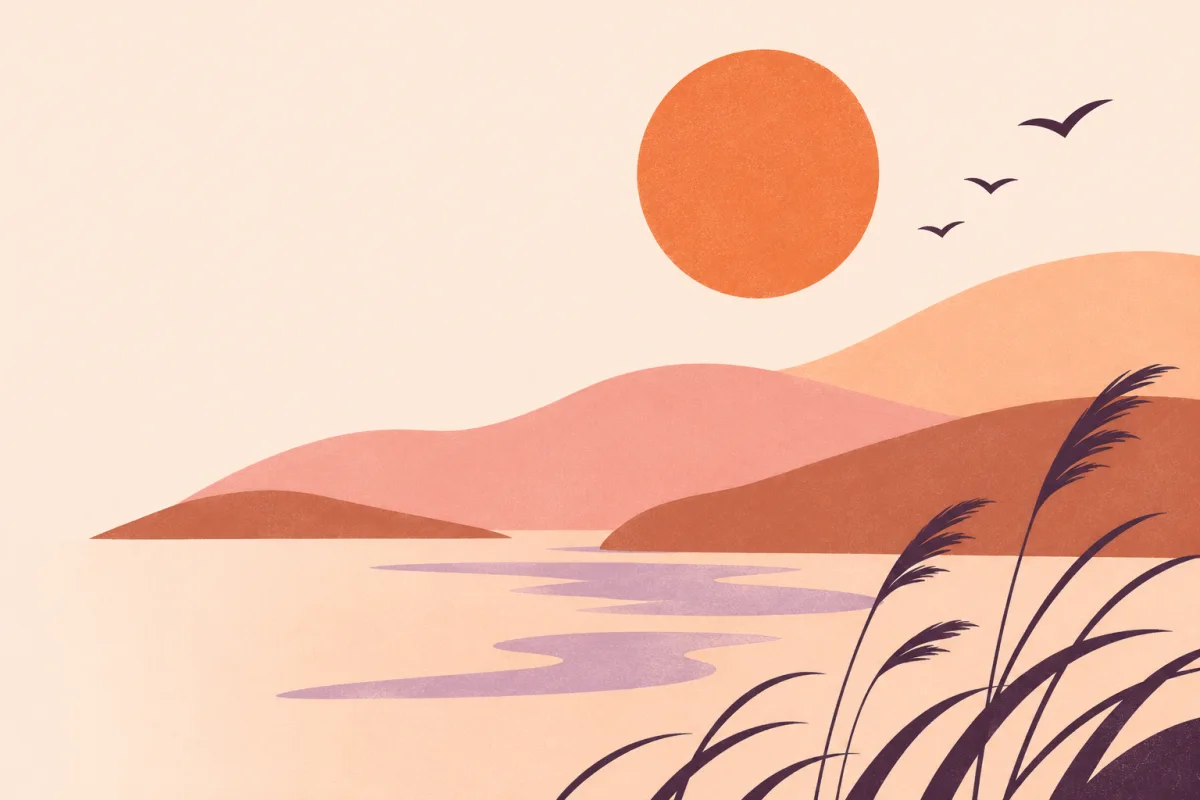
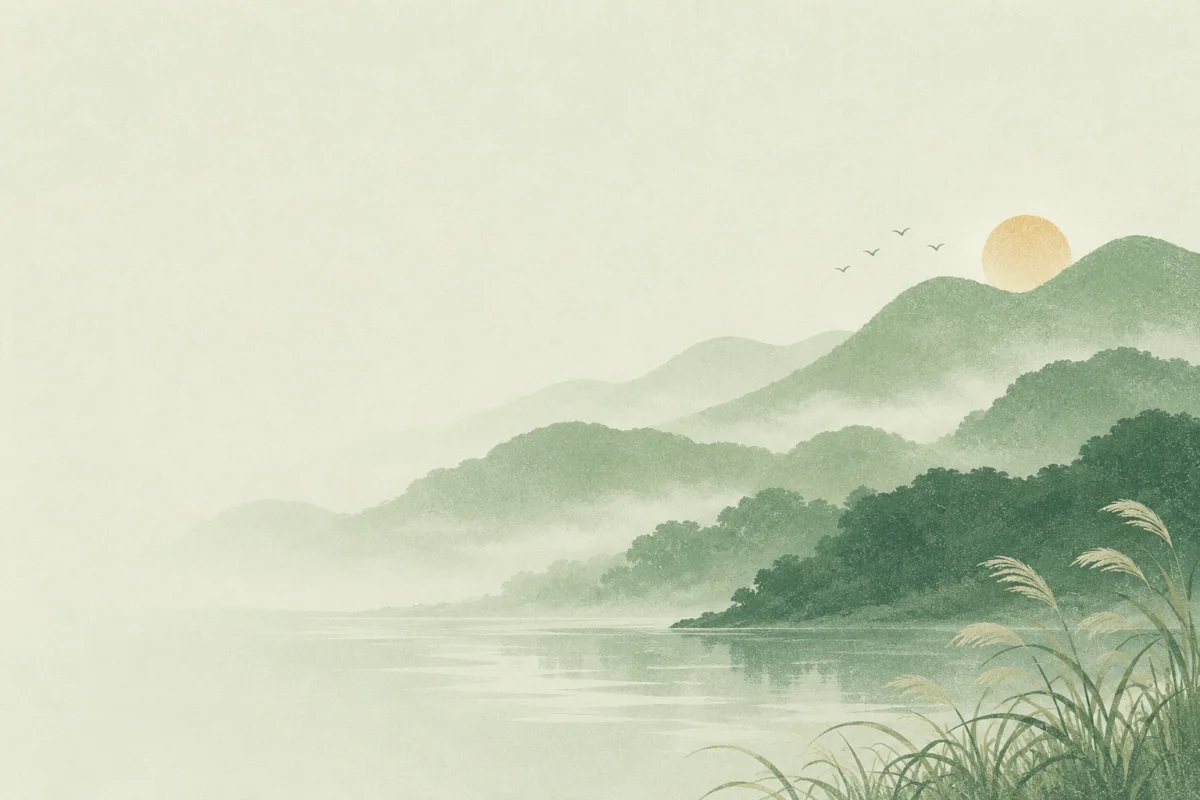
Apply sage green theme to Mood Log

diff --git a/style.css b/style.css
@@ -1,12 +1,12 @@
 :root {
   color-scheme: light;
-  --canvas: #fcf8f5;
-  --paper: #fffcfa;
-  --ink: #382739;
-  --muted: #71616b;
-  --line: #eee3df;
-  --accent: #a64f43;
-  --peach: #fce9e0;
+  --canvas: #f7f8f0;
+  --paper: #fffef8;
+  --ink: #243b2c;
+  --muted: #59675a;
+  --line: #e1e7db;
+  --accent: #45664e;
+  --peach: #e4ecdf;
   --rail: 225px;
   font-family: "PingFang SC", "Microsoft YaHei", "Noto Sans CJK SC", system-ui, sans-serif;
   font-synthesis: none;
@@ -16,25 +16,25 @@ body { margin: 0; background: var(--canvas); color: var(--ink); font-size: 14px;
 button, textarea, input, select { font: inherit; color: inherit; }
 button { cursor: pointer; }
 a { color: inherit; text-decoration: none; }
-button:focus-visible, a:focus-visible, textarea:focus-visible, input:focus-visible, select:focus-visible, canvas:focus-visible { outline: 2px solid #9f4d67; outline-offset: 3px; }
+button:focus-visible, a:focus-visible, textarea:focus-visible, input:focus-visible, select:focus-visible, canvas:focus-visible { outline: 2px solid #406d50; outline-offset: 3px; }
 button:disabled { opacity: .46; cursor: not-allowed; }
 h1, h2, h3, p { margin: 0; }
 svg { width: 20px; height: 20px; display: block; flex-shrink: 0; }
 [data-icon] { display: inline-grid; place-items: center; flex-shrink: 0; }
 .skip { position: fixed; left: 12px; top: 10px; transform: translateY(-150%); z-index: 10; background: var(--ink); color: white; padding: 8px 14px; border-radius: 8px; }
 .skip:focus { transform: none; }
-.rail { width: var(--rail); position: fixed; z-index: 3; inset: 0 auto 0 0; display: flex; flex-direction: column; background: #fffdfa; border-right: 1px solid var(--line); padding: 30px 19px 20px; }
+.rail { width: var(--rail); position: fixed; z-index: 3; inset: 0 auto 0 0; display: flex; flex-direction: column; background: #fbfcf5; border-right: 1px solid var(--line); padding: 30px 19px 20px; }
 .brand { display: flex; align-items: center; gap: 12px; width: fit-content; margin: 2px 0 43px 12px; }
 .brand-mark, .brand-mark img { width: 44px; height: 44px; display: block; }
 .brand strong { display: block; font-family: "Songti SC", "Noto Serif CJK SC", SimSun, serif; font-size: 25px; letter-spacing: .11em; line-height: 1.15; font-weight: 800; }
 .brand small { display: block; font-size: 9px; color: var(--muted); letter-spacing: .19em; margin-top: 4px; font-weight: 750; }
 .nav { display: grid; gap: 7px; }
-.nav a { border-radius: 10px; color: #685768; display: flex; gap: 12px; align-items: center; padding: 12px 13px; font-weight: 590; min-height: 46px; }
-.nav a:hover { background: #faf2ec; }
-.nav a[aria-current="page"] { background: #f7e8e6; color: #753a47; font-weight: 750; }
+.nav a { border-radius: 10px; color: #4e6251; display: flex; gap: 12px; align-items: center; padding: 12px 13px; font-weight: 590; min-height: 46px; }
+.nav a:hover { background: #edf1e7; }
+.nav a[aria-current="page"] { background: #e4ecdf; color: #2d4936; font-weight: 750; }
 .nav svg { width: 18px; height: 18px; }
 .rail-footer { margin-top: auto; padding: 15px 9px 0; }
-.privacy-link { display: inline-flex; align-items: center; gap: 9px; color: #5b4a5b; font-weight: 650; }
+.privacy-link { display: inline-flex; align-items: center; gap: 9px; color: #405b47; font-weight: 650; }
 .privacy-link svg { width: 16px; height: 16px; }
 .rail-meta { border-top: 1px solid var(--line); margin-top: 16px; padding-top: 15px; font-size: 11px; color: var(--muted); display: flex; gap: 7px; align-items: center; }
 .local-dot { display: inline-block; width: 7px; height: 7px; border-radius: 50%; background: #739276; flex-shrink: 0; }
@@ -45,30 +45,30 @@ svg { width: 20px; height: 20px; display: block; flex-shrink: 0; }
 .crumb svg { width: 13px; height: 13px; }
 .crumb strong { color: var(--ink); }
 .top-actions { gap: 13px; }
-.mode-button { border: 1px solid #e6d9d5; border-radius: 30px; background: #fffaf7; display: flex; align-items: center; gap: 6px; padding: 5px 11px; min-height: 32px; color: #604a60; font-size: 11px; font-weight: 700; }
-.mode-button:hover { background: #f8eae8; }
+.mode-button { border: 1px solid #dbe3d6; border-radius: 30px; background: #f9fbf4; display: flex; align-items: center; gap: 6px; padding: 5px 11px; min-height: 32px; color: #45614d; font-size: 11px; font-weight: 700; }
+.mode-button:hover { background: #e6ede2; }
 .mode-button svg { width: 13px; height: 13px; }
-.avatar { display: grid; place-items: center; height: 35px; width: 35px; border-radius: 50%; background: #f1e5ec; color: #69506a; }
+.avatar { display: grid; place-items: center; height: 35px; width: 35px; border-radius: 50%; background: #e4ecdf; color: #46654f; }
 .avatar svg { width: 17px; height: 17px; }
 .mobile-privacy { display: none !important; }
 main, .page-footer { max-width: 1320px; padding-inline: clamp(24px, 3.6vw, 55px); margin-inline: auto; }
 main { padding-top: 27px; padding-bottom: 24px; min-height: calc(100vh - 145px); }
 main:focus { outline: none; }
 .page-footer { color: var(--muted); display: flex; justify-content: space-between; gap: 16px; font-size: 11px; padding-top: 12px; padding-bottom: 21px; }
-.hero { position: relative; min-height: 252px; background: #fff0e5; border: 1px solid #f4e1d8; border-radius: 19px; overflow: hidden; isolation: isolate; display: flex; align-items: center; margin-bottom: 18px; }
-.hero-art { position: absolute; z-index: -2; inset: 0 0 0 41%; background-image: url('hero.webp'); background-size: cover; background-position: center 56%; }
-.hero-art::after { content: ""; position: absolute; inset: 0; background: linear-gradient(90deg, #fff0e5, #fff0e500 38%); }
+.hero { position: relative; min-height: 252px; background: #edf1e4; border: 1px solid #dfe7d7; border-radius: 19px; overflow: hidden; isolation: isolate; display: flex; align-items: center; margin-bottom: 18px; }
+.hero-art { position: absolute; z-index: -2; inset: 0 0 0 41%; background-image: url('hero.webp?v=sage'); background-size: cover; background-position: center 46%; }
+.hero-art::after { content: ""; position: absolute; inset: 0; background: linear-gradient(90deg, #edf1e4, #edf1e400 38%); }
 .hero-body { padding: 28px 36px; max-width: 64%; }
-.eyebrow { color: #874a49; font-size: 12px; font-weight: 700; letter-spacing: .08em; display: flex; align-items: center; gap: 8px; }
+.eyebrow { color: #4b6651; font-size: 12px; font-weight: 700; letter-spacing: .08em; display: flex; align-items: center; gap: 8px; }
 .eyebrow svg { width: 15px; height: 15px; }
 h1 { font-size: clamp(30px, 3.2vw, 45px); font-weight: 800; line-height: 1.24; letter-spacing: .025em; }
 .hero h1 { font-family: "Songti SC", "Noto Serif CJK SC", SimSun, serif; margin: 10px 0 10px; }
-.hero p { color: #675057; font-size: 14px; }
+.hero p { color: #4d6553; font-size: 14px; }
 .primary, .secondary { display: inline-flex; align-items: center; justify-content: center; text-align: center; gap: 7px; min-height: 41px; border-radius: 9px; padding: 9px 15px; font-weight: 700; border: 1px solid transparent; }
-.primary { background: var(--ink); color: #fff8f4; }
-.primary:hover:not(:disabled) { background: #583954; }
-.secondary { background: #fffaf7; color: #5d455b; border-color: #ead9d7; }
-.secondary:hover { background: #faede8; }
+.primary { background: #2d4936; color: #fcfdf6; }
+.primary:hover:not(:disabled) { background: #3d6348; }
+.secondary { background: #f9fbf4; color: #375640; border-color: #d9e4d6; }
+.secondary:hover { background: #eaf0e5; }
 .hero .primary { margin-top: 19px; }
 .primary svg, .secondary svg { height: 17px; width: 17px; }
 .surface { background: var(--paper); border: 1px solid var(--line); border-radius: 15px; padding: 19px 21px; }
@@ -77,7 +77,7 @@ h1 { font-size: clamp(30px, 3.2vw, 45px); font-weight: 800; line-height: 1.24; l
 .section-head p, .helper { color: var(--muted); font-size: 12px; }
 .section-head p { margin-top: 2px; }
 .text-button { border: 0; background: transparent; padding: 0; }
-.text-link { display: inline-flex; align-items: center; gap: 4px; color: #8c453f; font-size: 12px; font-weight: 750; white-space: nowrap; }
+.text-link { display: inline-flex; align-items: center; gap: 4px; color: #3d694d; font-size: 12px; font-weight: 750; white-space: nowrap; }
 .text-link:hover, .privacy-link:hover { text-decoration: underline; text-underline-offset: 3px; }
 .text-link svg { width: 14px; height: 14px; }
 .mood-options { display: grid; grid-template-columns: repeat(5, minmax(0, 1fr)); gap: 10px; }
@@ -97,25 +97,25 @@ h1 { font-size: clamp(30px, 3.2vw, 45px); font-weight: 800; line-height: 1.24; l
 .chart-legend { display: flex; flex-wrap: wrap; align-items: center; gap: 7px 13px; padding: 5px 0 0 2px; }
 .chart-legend span { font-size: 10px; color: var(--muted); display: inline-flex; align-items: center; gap: 4px; }
 .mood-dot { display: inline-block; width: 7px; height: 7px; background: var(--dot); border-radius: 50%; }
-.care-feature { border-radius: 11px; background: #f2ebf4; padding: 12px; display: grid; grid-template-columns: 47px minmax(0, 1fr) 31px; gap: 10px; align-items: center; margin: 3px 0 8px; }
-.care-graphic { display: grid; place-items: center; width: 44px; height: 44px; border-radius: 11px; background: #e7d9ed; color: #61496c; }
+.care-feature { border-radius: 11px; background: #e4ecdf; padding: 12px; display: grid; grid-template-columns: 47px minmax(0, 1fr) 31px; gap: 10px; align-items: center; margin: 3px 0 8px; }
+.care-graphic { display: grid; place-items: center; width: 44px; height: 44px; border-radius: 11px; background: #d6e4d3; color: #34553e; }
 .care-graphic svg { width: 22px; height: 22px; }
 .care-feature strong, .care-short strong { display: block; font-size: 13px; }
-.care-feature small, .care-short small { color: #6a566b; display: block; font-size: 11px; margin-top: 1px; }
-.round-arrow { display: grid; place-items: center; border: 0; width: 31px; height: 31px; border-radius: 50%; color: #60476a; background: #fff9ff; }
-.round-arrow:hover { background: #e2d4e9; }
+.care-feature small, .care-short small { color: #4c6551; display: block; font-size: 11px; margin-top: 1px; }
+.round-arrow { display: grid; place-items: center; border: 0; width: 31px; height: 31px; border-radius: 50%; color: #385c45; background: #fafdf7; }
+.round-arrow:hover { background: #d3e3cf; }
 .round-arrow svg { width: 15px; height: 15px; }
 .care-short { display: grid; align-items: center; gap: 8px; grid-template-columns: 32px minmax(0, 1fr) 27px; padding: 8px 2px; border-bottom: 1px solid var(--line); }
 .care-short:last-child { border: 0; padding-bottom: 0; }
 .care-short .care-graphic { width: 31px; height: 31px; border-radius: 7px; }
 .care-short .care-graphic svg { width: 16px; height: 16px; }
 .care-short .round-arrow { background: transparent; width: 27px; }
-.care-short .round-arrow:hover { background: #f1e8ef; }
+.care-short .round-arrow:hover { background: #e8efe3; }
 .care-graphic[data-care="rain"] { background: #dceaf2; color: #466884; }
 .care-graphic[data-care="move"] { background: #e5eddb; color: #536b48; }
 .care-graphic[data-care="reflect"] { background: #f5e1d1; color: #8c5f40; }
 .bottom-card { margin-top: 16px; }
-.demo-note { display: flex; align-items: center; gap: 8px; color: #745962; font-size: 12px; margin-bottom: 14px; }
+.demo-note { display: flex; align-items: center; gap: 8px; color: #536955; font-size: 12px; margin-bottom: 14px; }
 .demo-note svg { width: 15px; height: 15px; }
 .subpage { margin-bottom: 20px; }
 .subpage h1 { margin-top: 3px; }
@@ -124,42 +124,42 @@ h1 { font-size: clamp(30px, 3.2vw, 45px); font-weight: 800; line-height: 1.24; l
 .subpage-actions .subpage { margin: 0; }
 .section-stack { display: grid; gap: 16px; }
 .filter-row { display: flex; align-items: center; gap: 8px; flex-wrap: wrap; }
-.chip { min-height: 32px; border: 1px solid #e8dbd7; background: #fffbf8; border-radius: 40px; padding: 4px 11px; color: #684f61; font-size: 12px; font-weight: 630; line-height: 1.4; }
-.chip:hover { background: #f9ebe8; }
-.chip[aria-pressed="true"], .chip[aria-selected="true"] { background: #f3e3ea; border-color: #cba9bb; color: #683c56; }
-.chip.tag { cursor: default; background: #f7eeea; border-color: transparent; display: inline-flex; min-height: 24px; align-items: center; padding: 3px 8px; }
+.chip { min-height: 32px; border: 1px solid #dce5d9; background: #fafbf4; border-radius: 40px; padding: 4px 11px; color: #48614d; font-size: 12px; font-weight: 630; line-height: 1.4; }
+.chip:hover { background: #edf3e9; }
+.chip[aria-pressed="true"], .chip[aria-selected="true"] { background: #e3ecdf; border-color: #aac1a8; color: #365b40; }
+.chip.tag { cursor: default; background: #edf2e8; border-color: transparent; display: inline-flex; min-height: 24px; align-items: center; padding: 3px 8px; }
 .journal-row { display: grid; grid-template-columns: 42px minmax(0, 1fr) auto; align-items: start; gap: 12px; padding: 15px 0; border-bottom: 1px solid var(--line); }
 .journal-row:last-child { border: 0; padding-bottom: 0; }
 .journal-row .face { height: 39px; width: 39px; }
 .journal-row .face svg { height: 28px; width: 28px; }
 .journal-row strong { font-size: 15px; }
 .journal-row .journal-meta { font-size: 12px; color: var(--muted); margin-left: 7px; }
-.journal-note { margin: 5px 0 7px; white-space: pre-wrap; overflow-wrap: anywhere; color: #5c4b58; }
+.journal-note { margin: 5px 0 7px; white-space: pre-wrap; overflow-wrap: anywhere; color: #495f4e; }
 .row-actions { display: flex; gap: 4px; }
-.icon-button { display: inline-grid; place-items: center; width: 34px; height: 34px; padding: 0; border: 0; border-radius: 8px; background: transparent; color: #73566c; }
-.icon-button:hover { background: #f2e6ee; }
+.icon-button { display: inline-grid; place-items: center; width: 34px; height: 34px; padding: 0; border: 0; border-radius: 8px; background: transparent; color: #496952; }
+.icon-button:hover { background: #e7efe4; }
 .icon-button svg { width: 17px; height: 17px; }
 .empty { color: var(--muted); padding: 22px 2px; text-align: center; font-size: 13px; }
 .wide-chart canvas { height: 225px; }
 .insight-grid { display: grid; gap: 16px; grid-template-columns: repeat(2, minmax(0, 1fr)); }
 .trigger-row { margin: 13px 0; }
-.trigger-label { display: flex; justify-content: space-between; gap: 8px; margin-bottom: 5px; color: #604b60; font-size: 13px; }
-.bar { height: 7px; background: #f3eae9; border-radius: 10px; overflow: hidden; }
-.bar span { display: block; height: 100%; background: #a97995; border-radius: inherit; }
-.insight-text { font-size: 14px; color: #5c475a; margin-top: 8px; }
+.trigger-label { display: flex; justify-content: space-between; gap: 8px; margin-bottom: 5px; color: #455e4a; font-size: 13px; }
+.bar { height: 7px; background: #eaf0e6; border-radius: 10px; overflow: hidden; }
+.bar span { display: block; height: 100%; background: #70937a; border-radius: inherit; }
+.insight-text { font-size: 14px; color: #405b47; margin-top: 8px; }
 .insight-data { display: flex; gap: 10px; flex-wrap: wrap; margin-top: 10px; }
-.insight-data span { background: #f6ebe7; border-radius: 8px; padding: 5px 8px; font-size: 12px; color: #744c60; }
+.insight-data span { background: #e7eee3; border-radius: 8px; padding: 5px 8px; font-size: 12px; color: #42644d; }
 .care-grid { display: grid; grid-template-columns: repeat(2, minmax(0, 1fr)); gap: 14px; }
 .care-card { display: flex; flex-direction: column; gap: 10px; align-items: flex-start; min-height: 190px; }
 .care-card h2 { font-size: 17px; }
 .care-card .secondary { margin-top: auto; min-height: 34px; padding: 5px 11px; font-size: 12px; }
-.care-meta { color: #79566f; font-weight: 650; font-size: 11px; }
+.care-meta { color: #53735a; font-weight: 650; font-size: 11px; }
 .care-card p { color: var(--muted); font-size: 13px; }
 .feedback-list { margin-top: 8px; }
 .feedback-row { display: flex; justify-content: space-between; gap: 7px; padding: 8px 0; border-bottom: 1px solid var(--line); font-size: 12px; }
 .feedback-row:last-child { border-bottom: 0; }
 dialog { border: 1px solid var(--line); background: var(--paper); color: var(--ink); border-radius: 19px; width: min(570px, calc(100% - 24px)); max-height: calc(100% - 24px); padding: 0; box-shadow: 0 18px 70px #33233945; }
-dialog::backdrop { background: #37283c73; }
+dialog::backdrop { background: #273c2b73; }
 .dialog-panel { padding: 23px; }
 .dialog-header { display: flex; justify-content: space-between; align-items: start; gap: 12px; margin-bottom: 13px; }
 .dialog-header h2 { font-size: 23px; line-height: 1.35; }
@@ -169,19 +169,19 @@ legend, .field-label { display: block; font-weight: 740; margin-bottom: 7px; fon
 .dialog-panel .mood-option { flex-direction: column; gap: 3px; min-height: 63px; font-size: 12px; }
 .mood-options:has(.mood-option[tabindex]) { outline-offset: 3px; }
 .intensity { display: grid; grid-template-columns: auto 1fr auto; align-items: center; gap: 8px; }
-input[type="range"] { width: 100%; margin: 0; accent-color: #895171; }
-textarea { width: 100%; padding: 10px 11px; resize: vertical; min-height: 74px; max-height: 220px; background: #fffcf9; border: 1px solid #e6d8d3; border-radius: 9px; }
+input[type="range"] { width: 100%; margin: 0; accent-color: #4d765a; }
+textarea { width: 100%; padding: 10px 11px; resize: vertical; min-height: 74px; max-height: 220px; background: #fbfcf6; border: 1px solid #dce5d8; border-radius: 9px; }
 .char-count { text-align: right; margin-top: 2px; }
 .dialog-actions { display: flex; justify-content: flex-end; flex-wrap: wrap; align-items: center; gap: 9px; margin-top: 14px; }
 .dialog-actions .helper { margin-right: auto; }
 .form-error { color: #9d423d; font-size: 12px; }
 .danger { color: #943c3e; }
-.timer-board { display: grid; justify-items: center; gap: 9px; padding: 16px 8px; background: #f5edf4; border-radius: 13px; text-align: center; }
-.breath-orb { background: #b790bc; width: 45px; height: 45px; margin: 12px 0; border-radius: 50%; box-shadow: 0 0 0 11px #e9dbed, 0 0 0 19px #efe3ef; }
+.timer-board { display: grid; justify-items: center; gap: 9px; padding: 16px 8px; background: #e9f0e5; border-radius: 13px; text-align: center; }
+.breath-orb { background: #7d9e81; width: 45px; height: 45px; margin: 12px 0; border-radius: 50%; box-shadow: 0 0 0 11px #d9e6d7, 0 0 0 19px #e3ede0; }
 .breath-orb.running { animation: breathe 10s infinite ease-in-out; }
 @keyframes breathe { 0%, 100% { transform: scale(.81); } 40% { transform: scale(1.13); } }
 .timer-value { font-variant-numeric: tabular-nums; font-size: 31px; font-weight: 720; line-height: 1.2; }
-.care-instructions { padding-left: 20px; margin: 10px 0; color: #634f5d; font-size: 13px; }
+.care-instructions { padding-left: 20px; margin: 10px 0; color: #465e4d; font-size: 13px; }
 .privacy-copy { display: grid; gap: 9px; color: var(--muted); }
 .toast { position: fixed; bottom: 24px; left: 50%; transform: translate(-50%, 15px); z-index: 5; padding: 9px 15px; background: var(--ink); color: white; border-radius: 8px; opacity: 0; pointer-events: none; transition: opacity .18s, transform .18s; width: max-content; max-width: calc(100vw - 26px); }
 .toast.show { opacity: 1; transform: translate(-50%, 0); }
@@ -201,7 +201,7 @@ textarea { width: 100%; padding: 10px 11px; resize: vertical; min-height: 74px; 
   .hero-body { padding: 17px; max-width: 74%; }
   .hero p { font-size: 12px; }
   .hero-art { left: 35%; background-position: 56% center; }
-  .hero-art::after { background: linear-gradient(90deg, #fff0e5 3%, #fff0e500 71%); }
+  .hero-art::after { background: linear-gradient(90deg, #edf1e4 3%, #edf1e400 71%); }
   .surface { padding: 14px; }
   .overview { grid-template-columns: 1fr; gap: 13px; margin-top: 13px; }
   .mood-options { gap: 5px; }

diff --git a/app.js b/app.js
@@ -224,19 +224,19 @@ function drawChart() {
   context.font = '10px "PingFang SC", system-ui, sans-serif';
   context.textBaseline = "middle";
   for (let index = 0; index < moods.length; index++) {
-    context.strokeStyle = "#eee1e1";
+    context.strokeStyle = "#e0e8dd";
     context.setLineDash([3, 4]);
     context.beginPath();
     context.moveTo(left, y(index));
     context.lineTo(right, y(index));
     context.stroke();
-    context.fillStyle = "#766573";
+    context.fillStyle = "#566959";
     context.textAlign = "left";
     context.fillText(moods[index].label, 0, y(index));
   }
   context.setLineDash([]);
   context.lineWidth = 2;
-  context.strokeStyle = "#b488a5";
+  context.strokeStyle = "#769582";
   context.lineJoin = "round";
   context.beginPath();
   let hasPrevious = false;
@@ -258,12 +258,12 @@ function drawChart() {
       context.arc(x(index), y(level), 5, 0, 2 * Math.PI);
       context.fillStyle = moods[level].color;
       context.fill();
-      context.strokeStyle = "#fffcfa";
+      context.strokeStyle = "#fffef8";
       context.stroke();
     }
     const step = chartModel.length === 7 ? (width < 360 ? 2 : 1) : (width < 500 ? 7 : 4);
     if ((index % step === 0 && index < chartModel.length - 2) || index === chartModel.length - 1 || (step === 1 && index === chartModel.length - 2)) {
-      context.fillStyle = "#766573";
+      context.fillStyle = "#566959";
       context.textAlign = index === chartModel.length - 1 ? "right" : "center";
       context.fillText(dateShort.format(point.date), index === chartModel.length - 1 ? width : x(index), height - 8);
     }

diff --git a/index.html b/index.html
@@ -3,19 +3,19 @@
 <head>
   <meta charset="utf-8">
   <meta name="viewport" content="width=device-width, initial-scale=1">
-  <meta name="theme-color" content="#fcf8f5">
+  <meta name="theme-color" content="#f7f8f0">
   <meta name="description" content="用一分钟记下情绪，回顾触发因素，找到适合当下的自我关怀练习。">
   <title>留白 Mood Log · 情绪日记与自我关怀</title>
-  <link rel="icon" href="mark.svg" type="image/svg+xml">
-  <link rel="stylesheet" href="style.css">
-  <script src="app.js" defer></script>
+  <link rel="icon" href="mark.svg?v=sage" type="image/svg+xml">
+  <link rel="stylesheet" href="style.css?v=sage">
+  <script src="app.js?v=sage" defer></script>
 </head>
 <body>
   <a class="skip" href="#main">跳到主要内容</a>
   <div class="shell">
     <aside class="rail" aria-label="产品导航">
       <a class="brand" href="#home" aria-label="留白首页">
-        <span class="brand-mark" aria-hidden="true"><img src="mark.svg" alt=""></span>
+        <span class="brand-mark" aria-hidden="true"><img src="mark.svg?v=sage" alt=""></span>
         <span><strong>留白</strong><small>MOOD LOG</small></span>
       </a>
       <nav class="nav" aria-label="主菜单">
